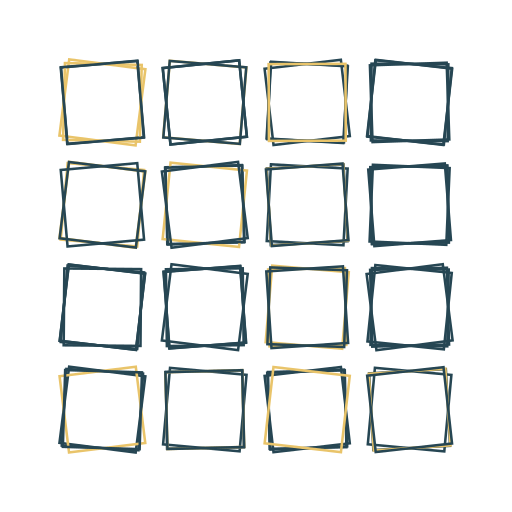
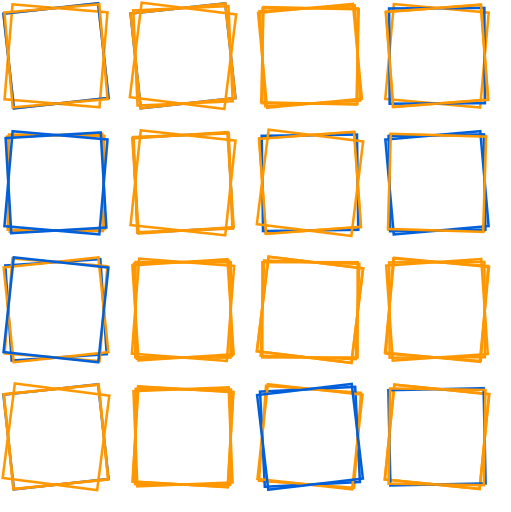
FIX Squares example

Changed region(s): [[0.0, 0.0, 0.9687, 0.9688]]

diff --git a/diagrams/core.py b/diagrams/core.py
@@ -4,7 +4,6 @@ from typing import Any, List, Optional, Tuple
 import cairo
 from colour import Color
 
-
 from diagrams.bounding_box import BoundingBox
 from diagrams.point import Point, ORIGIN
 from diagrams.shape import Shape
@@ -18,10 +17,18 @@ I = tx.Identity()
 @dataclass
 class Style:
     def __init__(
-        self, line_color: Optional[Color] = None, fill_color: Optional[Color] = None
+        self,
+        line_width: Optional[float] = None,
+        line_color: Optional[Color] = None,
+        fill_color: Optional[Color] = None,
     ):
+        self.line_width = line_width
         self.line_color = line_color
         self.fill_color = fill_color
+
+    @classmethod
+    def default(cls):
+        return cls(line_width=0.01, line_color=Color("black"))
 
     def render(self, ctx: PyCairoContext) -> None:
         if self.fill_color:
@@ -29,7 +36,7 @@ class Style:
             ctx.fill_preserve()
 
         ctx.set_source_rgb(*self.line_color.rgb)
-        ctx.set_line_width(0.01)
+        ctx.set_line_width(self.line_width)
         ctx.stroke()
 
 
@@ -97,8 +104,17 @@ class Diagram:
     def apply_transform(self, transform: tx.Transform) -> "Diagram":
         return ApplyTransform(transform, self)
 
+    def translate(self, dx: float, dy: float) -> "Diagram":
+        return ApplyTransform(tx.Translate(dx, dy), self)
+
     def rotate(self, θ: float) -> "Diagram":
         return ApplyTransform(tx.Rotate(θ), self)
+
+    def line_width(self, width: float) -> "Diagram":
+        return ApplyStyle(Style(line_width=width), self)
+
+    def line_color(self, color: Color) -> "Diagram":
+        return ApplyStyle(Style(line_color=color), self)
 
     def fill_color(self, color: Color) -> "Diagram":
         return ApplyStyle(Style(fill_color=color), self)
@@ -112,16 +128,19 @@ class Primitive(Diagram):
 
     @classmethod
     def from_shape(cls, shape: Shape) -> "Primitive":
-        return cls(shape, Style(line_color=Color("black")), I)
+        return cls(shape, Style.default(), I)
 
     def apply_transform(self, other_transform: tx.Transform) -> "Primitive":
-        new_transform = tx.Compose(self.transform, other_transform)
+        new_transform = tx.Compose(other_transform, self.transform)
         return Primitive(self.shape, self.style, new_transform)
 
     def apply_style(self, other_style: Style) -> "Primitive":
+        line_width = other_style.line_width or self.style.line_width
         line_color = other_style.line_color or self.style.line_color
         fill_color = other_style.fill_color or self.style.fill_color
-        new_style = Style(line_color=line_color, fill_color=fill_color)
+        new_style = Style(
+            line_width=line_width, line_color=line_color, fill_color=fill_color
+        )
         return Primitive(self.shape, new_style, self.transform)
 
     def get_bounding_box(self, t: tx.Transform = I) -> BoundingBox:
@@ -147,10 +166,7 @@ class Compose(Diagram):
     diagram2: Diagram
 
     def get_bounding_box(self, t: tx.Transform = I) -> BoundingBox:
-        return self.box
-        # box1 = self.diagram1.get_bounding_box(t)
-        # box2 = self.diagram2.get_bounding_box(t)
-        # return box1.union(box2)
+        return self.box.apply_transform(t)
 
     def to_list(self, t: tx.Transform = I) -> List["Primitive"]:
         return self.diagram1.to_list(t) + self.diagram2.to_list(t)
@@ -162,14 +178,12 @@ class ApplyTransform(Diagram):
     diagram: Diagram
 
     def get_bounding_box(self, t: tx.Transform = I) -> BoundingBox:
-        t_new = tx.Compose(self.transform, t)
+        t_new = tx.Compose(t, self.transform)
         return self.diagram.get_bounding_box(t_new)
 
     def to_list(self, t: tx.Transform = I) -> List["Primitive"]:
-        return [
-            prim.apply_transform(tx.Compose(self.transform, t))
-            for prim in self.diagram.to_list(t)
-        ]
+        t_new = tx.Compose(t, self.transform)
+        return [prim.apply_transform(t_new) for prim in self.diagram.to_list(t)]
 
 
 @dataclass

diff --git a/examples/squares.py b/examples/squares.py
@@ -1,34 +1,39 @@
 import math
 import random
 
+from itertools import product
+
 import streamlit as st  # type: ignore
 
-from diagrams import Diagram, RGB, rectangle
+from colour import Color
+from diagrams import square, concat
 
 
 def make_square():
     colors = [
-        RGB(38, 70, 83),  # charcoal
-        RGB(233, 196, 106),  # orange yellow crayola
+        Color("#ff9700"),  # papaya
+        Color("#005FDB"),  # blue
     ]
+
     # generate uniformly a value in [-max_angle, max_angle]
     max_angle = math.pi / 24.0
     θ = 2 * max_angle * random.random() - max_angle
+
     # pick a random color
     i = random.random() > 0.75
     color = colors[i]
-    return rectangle(0.15, 0.15).set_stroke_color(color).rotate(θ)
+
+    return square(0.75).line_color(color).rotate(θ)
 
 
 def make_group(num_squares=4):
-    return Diagram.concat(make_square() for _ in range(4))
+    return concat(make_square() for _ in range(num_squares))
 
 
-disps = [0.2, 0.4, 0.6, 0.8]
-centers = [(x, y) for x in disps for y in disps]
-diagram = Diagram.concat(make_group().translate(x, y) for x, y in centers)
-diagram = diagram.fmap(lambda s: s.set_stroke_width(0.005))
+disps = range(4)
+diagram = concat(make_group().translate(x, y) for x, y in product(disps, disps))
+diagram = diagram.line_width(0.02)
 
-path = "test.png"
-diagram.render(path)
+path = "examples/output/squares.png"
+diagram.render(path, height=512)
 st.image(path)

diff --git a/diagrams/__init__.py b/diagrams/__init__.py
@@ -5,16 +5,28 @@ from diagrams.core import Diagram, Primitive
 from diagrams.shape import Shape, Circle, Rectangle
 
 
-def circle(size: float) -> Diagram:
-    return Primitive.from_shape(Circle(size))
+def circle(radius: float) -> Diagram:
+    return Primitive.from_shape(Circle(radius))
 
 
-def square(size: float) -> Diagram:
-    return Primitive.from_shape(Rectangle(size, size))
+def rectangle(width: float, height: float) -> Diagram:
+    return Primitive.from_shape(Rectangle(width, height))
+
+
+def square(side: float) -> Diagram:
+    return Primitive.from_shape(Rectangle(side, side))
+
+
+def atop(diagram1: Diagram, diagram2: Diagram) -> Diagram:
+    return diagram1.atop(diagram2)
 
 
 def beside(diagram1: Diagram, diagram2: Diagram) -> Diagram:
     return diagram1.beside(diagram2)
+
+
+def concat(diagrams: List[Diagram]) -> Diagram:
+    return reduce(atop, diagrams)
 
 
 def hcat(diagrams: List[Diagram]) -> Diagram:

diff --git a/README.md b/README.md
@@ -59,14 +59,13 @@ streamlit run examples/escher_square_limit.py
 
 ## TODO
 
-- [ ] Draw horizontal and vertical lines
-- [ ] Rename blank to phantom?
+- [ ] Draw paths
 - [ ] Allow change of file type for the `render` function
 - [ ] Add `rotate_by` transformation (rotates by a fraction of the circle)
 - [ ] Define color names
-- [ ] Allow for HSV colors
 - [ ] Add more examples: e.g., Vera Molnár's drawings, Hilbert curve, Escher's Square Limit
 - [ ] How to allow the context?
+- [x] Allow for HSV colors
 - [x] Composing transformations is not efficient.
 - [x] Transform bounding boxes
 - [x] Add `Scale` transformation
